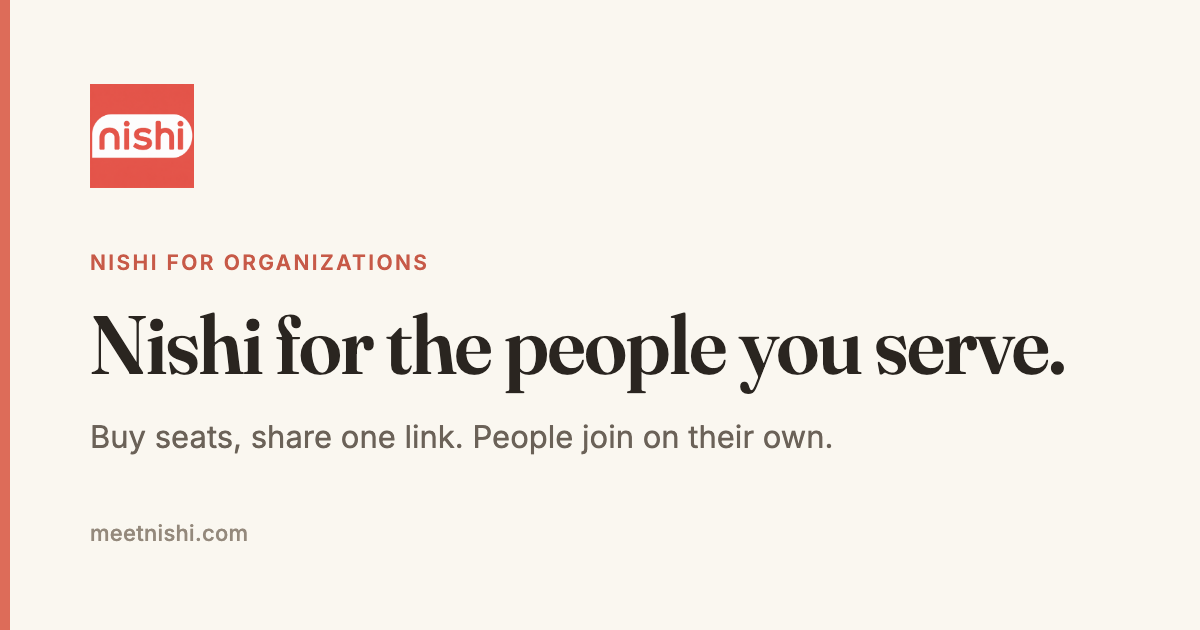
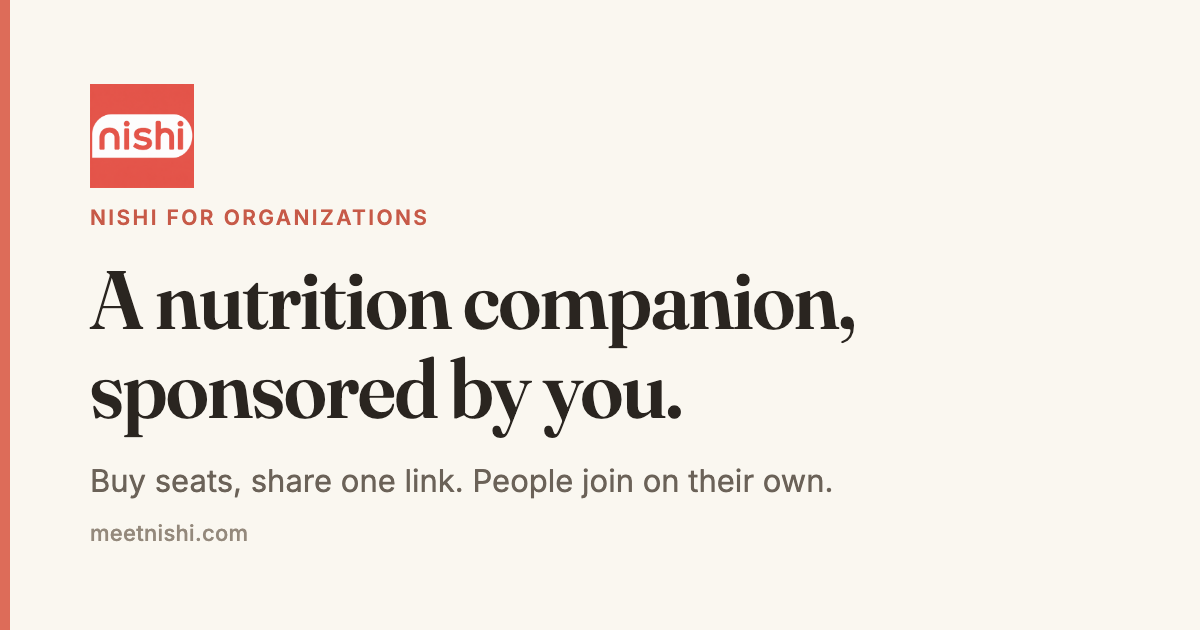
Sales page: concrete headings instead of 'your people' / 'people you serve'
Claude-Session: https://claude.ai/code/session_01F7YaudYVfF2qfUEFgw9q3y

Changed region(s): [[0.0617, 0.3921, 0.8942, 0.7238], [0.0617, 0.754, 0.7092, 0.7841], [0.0617, 0.3317, 0.37, 0.3619]]

diff --git a/orgs/index.html b/orgs/index.html
@@ -131,7 +131,7 @@ sitemap: true
     <div class="container">
       <div class="hero-inner">
         <span class="eyebrow">Nishi for Organizations</span>
-        <h1>Give the people you serve a nutrition companion.</h1>
+        <h1>Give your patients, members or employees a nutrition companion.</h1>
         <p class="lead">Telehealth programs, clinics, employers and health plans can offer Nishi Premium to their patients, members or employees. You buy the seats and share one link. People join on their own, and you never send us a client list.</p>
         <div class="nx-hero-cta">
           <a href="#demo" class="btn btn-primary">Request a demo</a>
@@ -332,7 +332,7 @@ sitemap: true
     <div class="container">
       <div class="section-header reveal">
         <span class="eyebrow-text">Request a demo</span>
-        <h2>Let's talk about your people.</h2>
+        <h2>Let's set up a demo.</h2>
         <p class="lead">Tell us a little about your organization. We reply within one business day.</p>
       </div>
 
